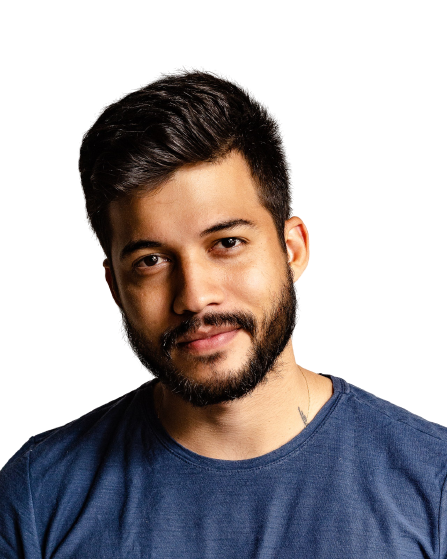
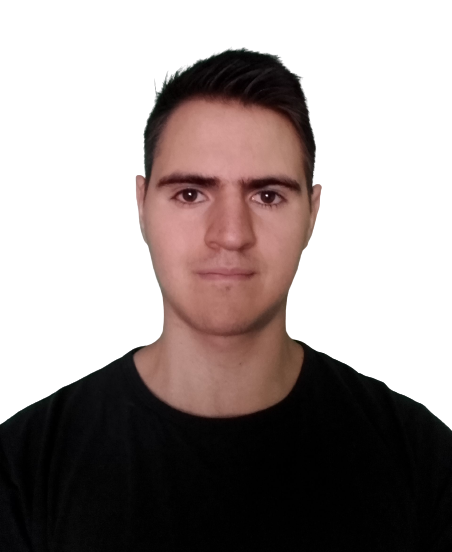
Formulario de contacto funcional, modificando foto de perfil en seccion sobre mí y estilos a la paleta de colores

diff --git a/assets/js/script.js b/assets/js/script.js
@@ -24,6 +24,35 @@ if(menuClose) {
     })
 }
 
+const lista = document.querySelector(".colores__lista");
+const colorContenido = document.querySelector(".colores__contenido");
+const colorIcono = document.querySelector(".colores__icono");
+
+colorContenido.addEventListener("click", () => {
+
+    lista.classList.toggle("open");
+
+});
+
+const colores = document.querySelectorAll(".colores__item");
+document.querySelector(":root").style.setProperty("--principal", "#EB4A4A");
+
+colores.forEach(color => {
+
+    color.addEventListener("click", () => {
+        const colorActual = color.dataset.id;
+        document.querySelector(":root").style.setProperty("--principal", colorActual);
+        
+    })
+
+})
+
+window.addEventListener("scroll", () => {
+
+    lista.classList.remove("open");
+    
+})
+
 const inputs = document.querySelectorAll(".formulario__input");
 
 function focusFunc() {
@@ -184,27 +213,4 @@ formulario.addEventListener("submit", (event) => {
 
     }
     
-})
-
-const lista = document.querySelector(".colores__lista");
-const colorContenido = document.querySelector(".colores__contenido");
-const colorIcono = document.querySelector(".colores__icono");
-
-colorContenido.addEventListener("click", () => {
-    lista.classList.toggle("open");
-});
-
-const colores = document.querySelectorAll(".colores__item");
-document.querySelector(":root").style.setProperty("--principal", "#EB4A4A");
-
-colores.forEach(color => {
-    color.addEventListener("click", () => {
-        const colorActual = color.dataset.id;
-        console.log(colorActual);
-        document.querySelector(":root").style.setProperty("--principal", colorActual);
-    })
-})
-
-window.addEventListener("scroll", () => {
-    lista.classList.remove("open");
 })

diff --git a/assets/css/styles.css b/assets/css/styles.css
@@ -148,7 +148,9 @@ h1, h2, h3, h4 {
 }
 
 .colores__lista {
-    display: none;
+    display: flex;
+    visibility: hidden;
+    opacity: 0;
     margin: 0;
     position: absolute;
     background-color: var(--gris);
@@ -156,10 +158,12 @@ h1, h2, h3, h4 {
     top: 7.5rem;
     left: -4.8rem;
     padding: .5rem;
+    transition: .2s;
 }
 
 .colores__lista.open {
-    display: flex;
+    visibility: visible;
+    opacity: 1;
 }
 
 .colores__lista::before {
@@ -379,6 +383,7 @@ h1, h2, h3, h4 {
 }
 
 .scroll {
+    display: block;
     color: var(--blanco);
     position: absolute;
     left: 50%;
@@ -409,7 +414,7 @@ h1, h2, h3, h4 {
 
 .about__img {
     width: 80%;
-    border-radius: 30% 70% 70% 30% / 30% 30% 70% 70%;
+    border-radius: 30% 70% 50% 60% / 30% 30% 70% 70%;
     background: linear-gradient(var(--principal) 5%,var(--fondo) 100%);
     justify-self: center;
 }
@@ -930,6 +935,10 @@ h1, h2, h3, h4 {
 
     .home__contenido {
         margin-top: 12.5rem;
+    }
+
+    .scroll {
+        display: none;
     }
 
     .about__descripcion,

diff --git a/index.html b/index.html
@@ -431,7 +431,7 @@
 
                 </div>
 
-                <form class="contacto__formulario" action="index.html" autocomplete="off" novalidate>
+                <form name="contact" class="contacto__formulario" action="index.html" autocomplete="off" novalidate netlify>
                 
                     <div class="formulario__campo campo-nombre">
                         <input type="text" name="nombre" class="formulario__input" placeholder="Ej: Carlos">
